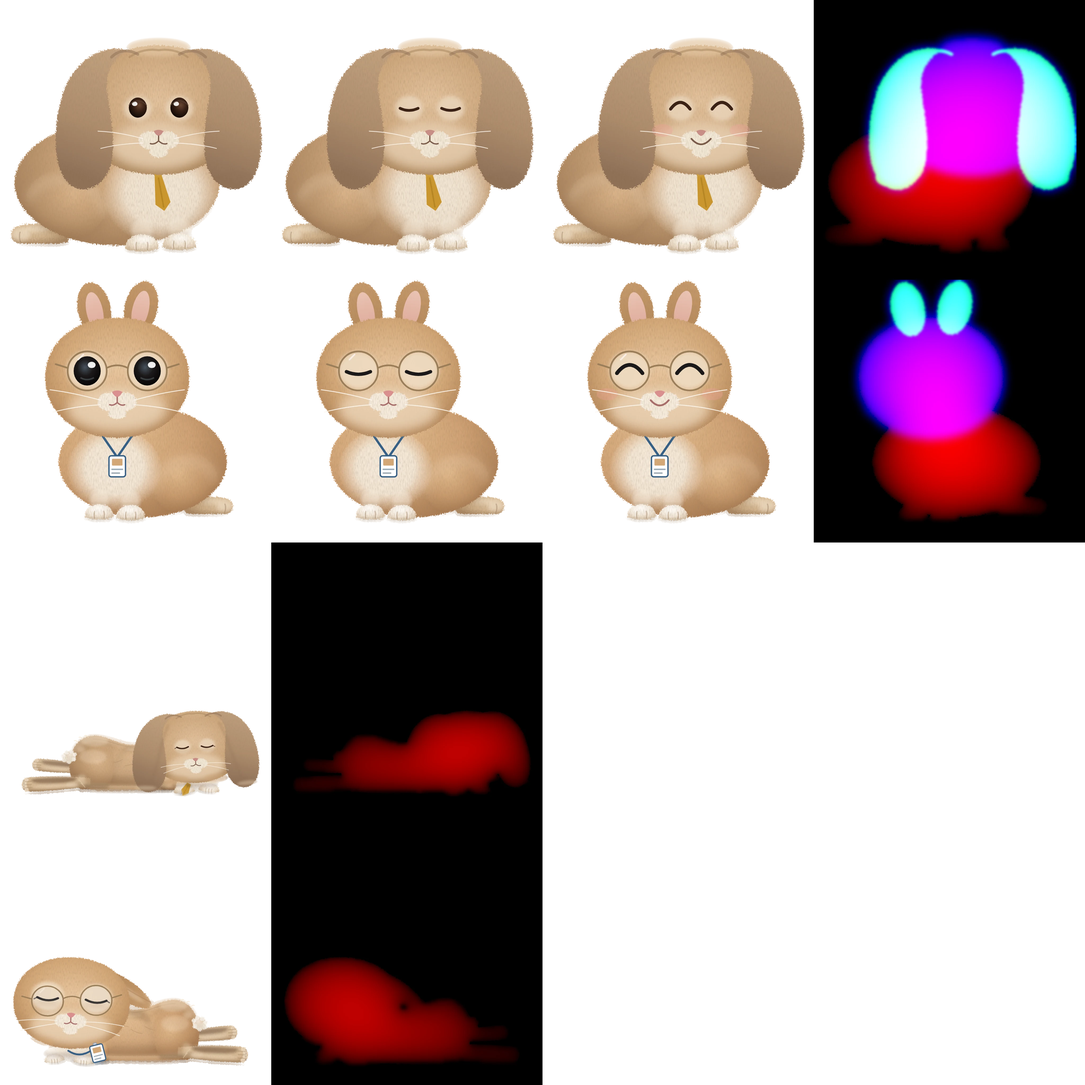
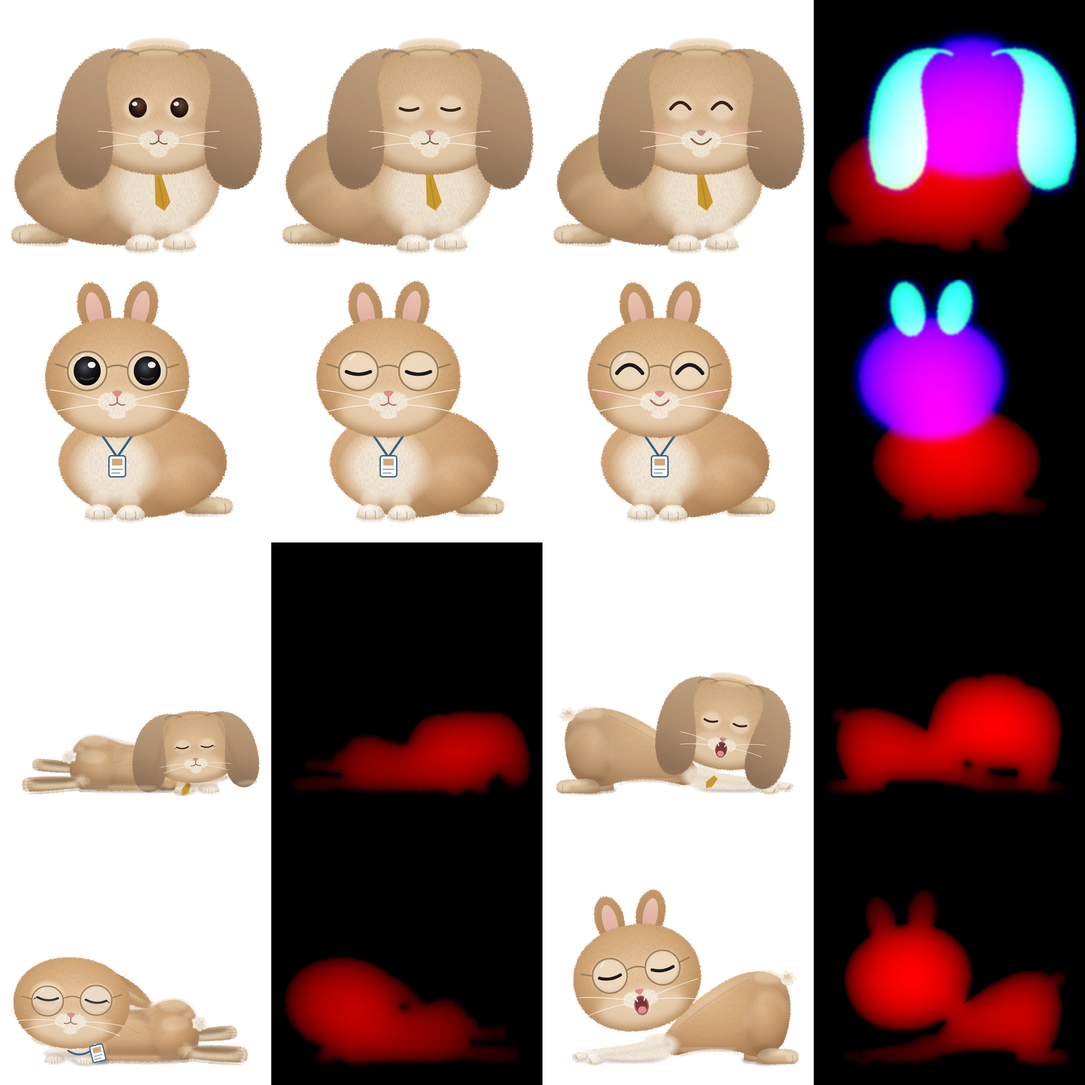
動くレンとジル：伸び（あくび）と、ばたん（横倒しで寝る）を足す
ばたんの絵は 2 枚目の絵（atlas2.webp）に入れ、読めない時は今までの寝方になる。
倒し具合・ずれ・?v= を check 57 が見張る。

Claude-Session: https://claude.ai/code/session_01KYhWQVkUVFVXPun7Dy396r

Changed region(s): [[0.5, 0.5, 1.0, 1.0]]

diff --git a/guide3d.js b/guide3d.js
@@ -26,12 +26,15 @@
   window.__g3d = state;
 
   /* ───────── 絵のます目（tools/make_g3d.py と同じ数字） ───────── */
+  const ATLAS2 = (document.currentScript && document.currentScript.dataset.atlas2) || "img/g3d/atlas2.webp";   // ばたんの絵（2 枚目）
   const AW = 4096, AH = 4096, CELL = 1024, PAD = 32, INNER = CELL - PAD * 2; // 2026-11-16（→ NOTES）
   const tile = (col, row) => [(col * CELL + PAD) / AW, (row * CELL + PAD) / AH, INNER / AW, INNER / AH];
   const FACE = { open: 0, blink: 1, happy: 2 };
   // 寝る姿勢の倍率（→ NOTES）
   const POSE_R = [1.728, 1.2604], POSE_X = [-0.3272, 0.2587];   // X＝ずれ
-  const flatOff = (c) => Math.cos(c.tA || 0) >= 0 ? POSE_X[c.row] + (c.row ? 0.16 : -0.16) : (c.row ? -1 : 1) * (0.3 - POSE_R[c.row] / 2);   // 寝る絵のまん中のずれ。反対を向いている時は、前へのびて伏せる（お尻はその場、頭が前へ）
+  const FLOP_R = [1.456, 1.2865], FLOP_X = [-0.2088, 0.0738], t2 = (col, row) => [(col * CELL + PAD) / 2048, (row * CELL + PAD) / 2048, INNER / 2048, INNER / 2048];   // ばたん（2 枚目の絵 atlas2.webp）
+  const BOW_R = [1.408, 1.125], BOW_X = [-0.1528, 0.0938];   // 前のび（伸び＋あくび）の（→ NOTES）
+  const flatOff = (c) => { const X = c.fp ? FLOP_X : POSE_X, Rr = c.fp ? FLOP_R : POSE_R; return Math.cos(c.tA || 0) >= 0 ? X[c.row] + (c.row ? 0.16 : -0.16) : (c.row ? -1 : 1) * (0.3 - Rr[c.row] / 2); };   // 寝る絵のまん中のずれ（→ NOTES）
   const FOOT = 0.058;      // 絵の下から足の裏までの割合
   const GRID = 72;         // 板の分割数（2026-11-16：耳（→ NOTES）
   const DEPTH = 0.27;      // ふくらみの厚さ（絵の幅に対して）
@@ -52,7 +55,7 @@ void main() {
   vec2 q = aUv; float plant = smoothstep(${FOOT.toFixed(3)}, ${(FOOT + 0.1).toFixed(3)}, q.y);
   if (uEarP.w < 0.5) {
     float wy = smoothstep(uEarP.z, uEarP.z + 0.08, q.y), mid = 0.5 * (uEarP.x + uEarP.y);
-    float mL = aD.y * (1.0 - smoothstep(mid - 0.02, mid + 0.02, q.x)), mR = aD.y * smoothstep(mid - 0.02, mid + 0.02, q.x); // 耳の形のところだけ（頭や体はついてこない）
+    float mL = aD.y * (1.0 - smoothstep(mid - 0.02, mid + 0.02, q.x)), mR = aD.y * smoothstep(mid - 0.02, mid + 0.02, q.x); // 耳の形のところだけ（→ NOTES）
     q.y -= (q.y - uEarP.z) * uEar.w * wy * max(mL, mR);
     q = rot2(q, vec2(uEarP.x, uEarP.z), uEar.x * wy * mL);
     q = rot2(q, vec2(uEarP.y, uEarP.z), uEar.y * wy * mR);
@@ -77,7 +80,7 @@ void main() {
     q.y -= uHop.w * 0.035 * fr * smoothstep(0.2, 0.6, q.y);                   // 前足の着地：肩（進む側）が沈む
     q.x += uHop.z * uHop.x * 0.03 * smoothstep(0.2, 0.7, q.y) * body; }        // のび：胸が前へ出る
   vec3 p = vec3((q.x - 0.5) * uSq.x, (q.y - ${FOOT.toFixed(3)}) * uSq.y, aD.x * ${DEPTH.toFixed(2)} * uSq.x);
-  { float m = uM > 1.5708 ? -1.0 : 1.0, th = (uM > 1.5708 ? uM - 3.14159 : uM) * 0.45, c0 = cos(th), s0 = sin(th); p.x *= m; p.z *= 1.0 + 0.6 * abs(s0); p.xz = vec2(p.x * c0 + p.z * s0, -p.x * s0 + p.z * c0); }   // 向きを変える：体を縦の軸で 40 度まで回し、跳ねた一番上で左右を入れかえ、反対側から回しもどす（真横まで回すと、ふくらみの絵が流れて乱れた）
+  { float m = uM > 1.5708 ? -1.0 : 1.0, th = (uM > 1.5708 ? uM - 3.14159 : uM) * 0.45, c0 = cos(th), s0 = sin(th); p.x *= m; p.z *= 1.0 + 0.6 * abs(s0); p.xz = vec2(p.x * c0 + p.z * s0, -p.x * s0 + p.z * c0); }   // 向きを変える（→ NOTES）
   p.xy += uLag * top * top * top;
   float cz = cos(uRot.z), sz = sin(uRot.z); p.xy = vec2(p.x * cz - p.y * sz, p.x * sz + p.y * cz);
   float cx = cos(uRot.x), sx = sin(uRot.x); p.yz = vec2(p.y * cx - p.z * sx, p.y * sx + p.z * cx);
@@ -153,7 +156,7 @@ void main() { vec4 c = texture2D(uI, uTile.xy + (vQ * vec2(0.5, -0.5) + 0.5) * u
   };
 
   let offY = 0;
-  let progChar, progBlob, progIcon, tex, texIcon, quadBuf, idxBuf, idxCount, meshes = [], meshesF = [], cleared = false;
+  let progChar, progBlob, progIcon, tex, texIcon, quadBuf, idxBuf, idxCount, meshes = [], meshesF = [], meshesB = [], meshesP = [], tex2 = null, cleared = false;
   const proj = new Float32Array(16);
   let W = 1, H = 1, DPR = 1, camD = 1;
 
@@ -161,13 +164,14 @@ void main() { vec4 c = texture2D(uI, uTile.xy + (vQ * vec2(0.5, -0.5) + 0.5) * u
     progChar = program(VS_CHAR, FS_CHAR, ["aUv", "aD"]);
     progBlob = program(VS_BLOB, FS_BLOB, ["aQ"]);
     progIcon = program(VS_BLOB, FS_ICON, ["aQ"]);
-    tex = gl.createTexture(); gl.bindTexture(gl.TEXTURE_2D, tex);
+    const mkTex = (im) => { const t = gl.createTexture(); gl.bindTexture(gl.TEXTURE_2D, t);
     gl.pixelStorei(gl.UNPACK_PREMULTIPLY_ALPHA_WEBGL, false);
-    gl.texImage2D(gl.TEXTURE_2D, 0, gl.RGBA, gl.RGBA, gl.UNSIGNED_BYTE, img);
+    gl.texImage2D(gl.TEXTURE_2D, 0, gl.RGBA, gl.RGBA, gl.UNSIGNED_BYTE, im);
     gl.generateMipmap(gl.TEXTURE_2D);
     gl.texParameteri(gl.TEXTURE_2D, gl.TEXTURE_MIN_FILTER, gl.LINEAR_MIPMAP_LINEAR);
     gl.texParameteri(gl.TEXTURE_2D, gl.TEXTURE_MAG_FILTER, gl.LINEAR);
-    gl.texParameteri(gl.TEXTURE_2D, gl.TEXTURE_WRAP_S, gl.CLAMP_TO_EDGE); gl.texParameteri(gl.TEXTURE_2D, gl.TEXTURE_WRAP_T, gl.CLAMP_TO_EDGE);
+    gl.texParameteri(gl.TEXTURE_2D, gl.TEXTURE_WRAP_S, gl.CLAMP_TO_EDGE); gl.texParameteri(gl.TEXTURE_2D, gl.TEXTURE_WRAP_T, gl.CLAMP_TO_EDGE); return t; };
+    tex = mkTex(img);
     texIcon = gl.createTexture(); gl.bindTexture(gl.TEXTURE_2D, texIcon);
     gl.pixelStorei(gl.UNPACK_PREMULTIPLY_ALPHA_WEBGL, true);
     gl.texImage2D(gl.TEXTURE_2D, 0, gl.RGBA, gl.RGBA, gl.UNSIGNED_BYTE, drawIcons());
@@ -178,13 +182,14 @@ void main() { vec4 c = texture2D(uI, uTile.xy + (vQ * vec2(0.5, -0.5) + 0.5) * u
     // 奥行きを頂点に焼きこむ（→ NOTES）
     const N = GRID + 1, c2 = document.createElement("canvas"); c2.width = N; c2.height = N * 2;
     const g = c2.getContext("2d", { willReadFrequently: true });
-    const mesh = (col, row) => {
-      g.clearRect(0, 0, N, N); g.drawImage(img, col * CELL + PAD, row * CELL + PAD, INNER, INNER, 0, 0, N, N);
+    const mesh = (col, row, im = img) => {
+      g.clearRect(0, 0, N, N); g.drawImage(im, col * CELL + PAD, row * CELL + PAD, INNER, INNER, 0, 0, N, N);
       const px = g.getImageData(0, 0, N, N).data, v = new Float32Array(N * N * 5);
       for (let j = 0; j < N; j++) for (let i = 0; i < N; i++) { const k = (j * N + i) * 5, o = ((N - 1 - j) * N + i) * 4; v[k] = i / GRID; v[k + 1] = j / GRID; v[k + 2] = px[o] / 255; v[k + 3] = px[o + 1] / 255; v[k + 4] = px[o + 2] / 255; }
       const b = gl.createBuffer(); gl.bindBuffer(gl.ARRAY_BUFFER, b); gl.bufferData(gl.ARRAY_BUFFER, v, gl.STATIC_DRAW); return b;
     };
-    meshes = [mesh(3, 0), mesh(3, 1)]; meshesF = [mesh(1, 2), mesh(1, 3)];
+    meshes = [mesh(3, 0), mesh(3, 1)]; meshesF = [mesh(1, 2), mesh(1, 3)]; meshesB = [mesh(3, 2), mesh(3, 3)];
+    { const i2 = new Image(); i2.crossOrigin = "anonymous"; i2.onload = () => { try { tex2 = mkTex(i2); meshesP = [mesh(1, 0, i2), mesh(1, 1, i2)]; } catch (e) { tex2 = null; } }; i2.src = ATLAS2; }   // 2 枚目（ばたん）。読めなくても、ばたんをしないだけ
     const idx = new Uint16Array(GRID * GRID * 6); let q = 0;
     for (let j = 0; j < GRID; j++) for (let i = 0; i < GRID; i++) { const a = j * N + i, b = a + 1, c = a + N, d = c + 1; idx[q++] = a; idx[q++] = b; idx[q++] = c; idx[q++] = b; idx[q++] = d; idx[q++] = c; }
     idxBuf = gl.createBuffer(); gl.bindBuffer(gl.ELEMENT_ARRAY_BUFFER, idxBuf); gl.bufferData(gl.ELEMENT_ARRAY_BUFFER, idx, gl.STATIC_DRAW); idxCount = idx.length;
@@ -257,22 +262,22 @@ void main() { vec4 c = texture2D(uI, uTile.xy + (vQ * vec2(0.5, -0.5) + 0.5) * u
     if (!opt.intro && !onScreen(r, T.size)) c.exit = { x: W + fs * 1.2, y: clamp(fy, fs, H - 20) }; // 行き先が画面の外 → 右の端へ出ていく
     c.from = { x: fx, dy: fy + scrollY, z: fz, size: fs };
     const E = c.exit || T, dist = Math.hypot(E.x - fx, E.y - fy);
-    c.shortMv = opt.intro || Math.abs(E.x - fx) < fs * 0.5;   // 最初の登場（奥から出てくる）も、向きを変えない（向かい合ったまま） // ほんの少しの移動は、向きを変えずに横へ一歩ずれる
+    c.shortMv = opt.intro || Math.abs(E.x - fx) < fs * 0.5;   // 最初の登場（→ NOTES）
     c.hops = opt.intro ? 3 : clamp(Math.round(dist / (c.row ? 300 : 380)), 1, c.row ? 4 : 3);   // ジル（小さい種類）は、小さな跳びを多く
     c.hopH = clamp(dist / c.hops * 0.22, c.shortMv && !opt.intro ? 10 : 26, 64) * (opt.intro ? 1.3 : 1) * (c.row ? 1.08 : 0.92);   // 重いレンは低く、軽いジルは少し高く   // 長い移動でも高く跳ばない   // うさぎの跳びは低く長い（→ NOTES）
     c.zArc = opt.intro ? 0 : clamp(dist * 0.35, 0, 240);
-    c.seed = Math.random() * 6; c.dur = (opt.intro ? 1.5 : Math.min(1.15, 0.5 + 0.2 * c.hops + dist / 4200)) * (0.94 + 0.06 * Math.random());   // 広い画面でも待たせない。毎回少しだけ速さがちがう（おそくはしない）
-    c.pre = opt.intro || !curOn || c.mode !== "sit" ? 0 : Math.abs(E.x - fx) < fs * 0.5 ? 0.05 : 0.13;   // ほんの少しの移動は、ほとんどためずに、小さく一歩                          // 跳ぶ前に、いちど沈む（ため）
-    { const dd = Math.sign(E.x - fx), want = dd * (c.row ? -1 : 1); if (dd && !c.shortMv && c.mode === "sit" && Math.cos(c.tA || 0) * want < 0) c.pre = Math.max(c.pre, c.row ? 0.28 : 0.38); }   // 重いレンは、ためが少し長い   // 向きを変える時は、向き終わってから跳ぶ
+    c.seed = Math.random() * 6; c.dur = (opt.intro ? 1.5 : Math.min(1.15, 0.5 + 0.2 * c.hops + dist / 4200)) * (0.94 + 0.06 * Math.random());   // 広い画面でも待たせない（→ NOTES）
+    c.pre = opt.intro || !curOn || c.mode !== "sit" ? 0 : Math.abs(E.x - fx) < fs * 0.5 ? 0.05 : 0.13;   // ほんの少しの移動は（→ NOTES）
+    { const dd = Math.sign(E.x - fx), want = dd * (c.row ? -1 : 1); if (dd && !c.shortMv && c.mode === "sit" && Math.cos(c.tA || 0) * want < 0) c.pre = Math.max(c.pre, c.row ? 0.28 : 0.38); }   // 重いレンは（→ NOTES）
     c.idle = ""; c.idNow = ""; c.env = 0; c.loafNow = false; c.calmNow = false; c.calmAt = 0;
-    const dd0 = Math.sign(E.x - fx) || 0; c.t = -(dd0 ? (dd0 * (c.row ? 1 : -1) > 0 ? 0 : 0.08 + 0.06 * Math.random()) : c.delay) - (opt.wait || 0) - c.pre; c.flat = false; c.flatGoal = false; c.lieT = 1; c.mode = "fly"; c.dir = Math.sign(E.x - fx) || 0; c.hopDir = c.dir || c.hopDir; c.seen = true; c.hop = 0; c.hopV = 0; c.spinT = -1; c.act = ""; c.hover = false; c.asleep = false;   // 進む方で前にいる子が先に出る（うしろの子が飛びこえない）
+    const dd0 = Math.sign(E.x - fx) || 0; c.t = -(dd0 ? (dd0 * (c.row ? 1 : -1) > 0 ? 0 : 0.08 + 0.06 * Math.random()) : c.delay) - (opt.wait || 0) - c.pre; c.flat = false; c.flatGoal = false; c.lieT = 1; c.mode = "fly"; c.dir = Math.sign(E.x - fx) || 0; c.hopDir = c.dir || c.hopDir; c.seen = true; c.hop = 0; c.hopV = 0; c.spinT = -1; c.act = ""; c.hover = false; c.asleep = false;   // 進む方で前にいる子が先に出る（→ NOTES）
     unsay(c);
   };
 
   const land = (c, now) => {
-    c.dust = 1; c.dX = c.x; c.dY = c.gy; c.mode = "sit"; c.h = 0; c.z = zBase(c); c.sqV = c.row ? -2.8 : -3.8; c.sl = c.dir * c.size * 0.03 * clamp(c.hopH / 40, 0.6, 1.6); c.happyUntil = now + 1.1;   // レン（重い種類）は着地で大きく沈む／勢いで少しすべって止まる
+    c.dust = 1; c.dX = c.x; c.dY = c.gy; c.mode = "sit"; c.h = 0; c.z = zBase(c); c.sqV = c.row ? -2.8 : -3.8; c.sl = c.dir * c.size * 0.03 * clamp(c.hopH / 40, 0.6, 1.6); c.happyUntil = now + 1.1;   // レン（重い種類）は着地で（→ NOTES）
     c.rx += 0.14; c.hyV -= 0.5; c.flapV -= 5; c.eWV += 3; c.exert = Math.min(1, c.exert + 0.25 + 0.12 * c.hops); c.hopF = -1;
-    if (Math.random() < 0.3) { c.idle = "shake"; c.idleT0 = now + 0.55; c.idleUntil = now + 1.05; } c.dir = 0; c.lookUntil = Math.cos(c.tA || 0) * (c.row ? -1 : 1) < 0 ? now + 1.4 : c.lookUntil; if (c.hops >= 3 && Math.random() < 0.35) { c.idle = "scope"; c.idleT0 = now + 0.4; c.idleUntil = now + 2; } c.hopAt = now + 4 + Math.random() * 5; c.lookAt = now + 5 + Math.random() * 5;   // 相手に背を向けて着いたら、体は回さず、頭だけで相手のほうをふり返る／長く走ったあとは、立ち止まって見回すことがある
+    if (Math.random() < 0.3) { c.idle = "shake"; c.idleT0 = now + 0.55; c.idleUntil = now + 1.05; } c.dir = 0; c.lookUntil = Math.cos(c.tA || 0) * (c.row ? -1 : 1) < 0 ? now + 1.4 : c.lookUntil; if (c.hops >= 3 && Math.random() < 0.35) { c.idle = "scope"; c.idleT0 = now + 0.4; c.idleUntil = now + 2; } c.hopAt = now + 4 + Math.random() * 5; c.lookAt = now + 5 + Math.random() * 5;   // 相手に背を向けて着いたら（→ NOTES）
     if (c.y > 0 && c.y < H + 20) {
       for (let i = 0; i < 5; i++) puffs.push({ x: c.x + (Math.random() - 0.5) * c.size * 0.5, dy: c.y + scrollY - 2, vx: (Math.random() - 0.5) * 90, vy: -20 - Math.random() * 40, r: c.size * (0.05 + Math.random() * 0.05), t: 0 });
       rings.push({ x: c.x, dy: c.y + scrollY, r: c.size * 0.3, t: 0 });
@@ -342,11 +347,11 @@ void main() { vec4 c = texture2D(uI, uTile.xy + (vQ * vec2(0.5, -0.5) + 0.5) * u
     if (now > c.twAt && now > c.twUntil) { c.twUntil = now + 1 + Math.random() * 2.2; c.twAt = c.twUntil + 0.8 + Math.random() * 3; }
     c.twPh += dt * (c.sniff ? 8 : 5 + 2 * c.exert) * 6.283;
     c.nose = !(c.asleep || c.hover || id === "groom" || fly) && (c.sniff || now < c.twUntil) ? Math.pow(Math.max(0, Math.sin(c.twPh)), 2) * (c.sniff ? 0.007 : 0.0045) : c.nose * Math.max(0, 1 - dt * 12);
-    { // 向き（2026-11-17 オーナー：左へ行く時は左を向いて走る）。ふだんは相手のほう（レンは右・ジルは左を向いた絵）。跳ぶ前にその場で向きを変え、着いて少したったら相手のほうへ戻る
-      const mT = fly && c.dir && !c.shortMv ? c.dir * (c.row ? -1 : 1) : c.faceM || 1; if (fly && c.dir && !c.shortMv) c.faceM = mT;   // 着いたら、そのままの向きでいる（毎回、相手のほうへ向き直らない。2026-11-17 オーナー）
-      const tg = mT > 0 ? 0 : Math.PI; if (tg !== c.tG) { c.tG = tg; c.tF = c.tA || 0; c.tq = 0; } c.tq = Math.min(1, (c.tq ?? 1) + dt / (c.row ? 0.32 : 0.45)); c.tA = c.tF + (c.tG - c.tF) * smooth(c.tq); const d = c.tG - c.tA;   // ゆっくり始まり、ゆっくり終わる。重いレンは 0.45 秒、小さいジルは 0.32 秒
+    { // 向き（2026-11-1（→ NOTES）
+      const mT = fly && c.dir && !c.shortMv ? c.dir * (c.row ? -1 : 1) : c.faceM || 1; if (fly && c.dir && !c.shortMv) c.faceM = mT;   // 着いたら（→ NOTES）
+      const tg = mT > 0 ? 0 : Math.PI; if (tg !== c.tG) { c.tG = tg; c.tF = c.tA || 0; c.tq = 0; } c.tq = Math.min(1, (c.tq ?? 1) + dt / (c.row ? 0.32 : 0.45)); c.tA = c.tF + (c.tG - c.tF) * smooth(c.tq); const d = c.tG - c.tA;   // ゆっくり始まり（→ NOTES）
       c.dust = Math.max(0, (c.dust || 0) - dt * 2.4);
-      if (c.tq >= 0.92 && (c.tqP || 0) < 0.92 && c.tq < 1.01) { c.dust = 0.7; c.dX = c.x; c.dY = c.gy; c.dK = 0.55; c.dDir = 0; c.flapV -= 2; } c.tqP = c.tq;   // 向きを変えて小さく跳ねたあと、着く所に小さなほこり・耳がはずむ
+      if (c.tq >= 0.92 && (c.tqP || 0) < 0.92 && c.tq < 1.01) { c.dust = 0.7; c.dX = c.x; c.dY = c.gy; c.dK = 0.55; c.dDir = 0; c.flapV -= 2; } c.tqP = c.tq;   // 向きを変えて小さく跳ねたあと（→ NOTES）
       if (Math.abs(d) > 2 && !c.turning) { c.turning = 1; c.flapV -= 4; c.eWV += 2; } if (Math.abs(d) < 0.01) c.turning = 0; c.sl = (c.sl || 0) * Math.max(0, 1 - dt * 7); }   // 向きを変える時、耳がふわっと外へ
     c.exert = Math.max(0, c.exert - dt / 7); c.br += dt * (c.asleep ? 28 : c.loafNow ? 36 : 42 + 58 * c.exert) / 60 * 6.283;
   };
@@ -390,16 +395,16 @@ void main() { vec4 c = texture2D(uI, uTile.xy + (vQ * vec2(0.5, -0.5) + 0.5) * u
         const u = t * c.hops, hi = Math.min(Math.floor(u), c.hops - 1), f = u >= c.hops ? 1 : u - Math.floor(u);
         if ((c.t > 0 && c.tP <= 0) || (hi !== c.hiL && c.t > 0)) { c.dust = 1; c.dX = c.x; c.dY = c.gy; c.dK = clamp(c.hopH / 50, 0.6, 1.3); c.dDir = c.dir; if (hi !== c.hiL && c.t > 0) c.flapV -= 2.5; } c.hiL = hi; c.tP = c.t;   // けった所・着いた所に小さな土ぼこり
         const ST = hi > 0 ? (hi === c.hops - 1 ? 0.14 : 0.09) : 0, fa = clamp((f - ST) / (1 - ST), 0, 1), Wt = (i) => c.hops < 2 ? 1 : i === 0 ? 0.8 : i === c.hops - 1 ? 0.85 : 1.15;
-        let tw = 0, sw = 0; for (let i = 0; i < c.hops; i++) { tw += Wt(i); if (i < hi) sw += Wt(i); } const p = (sw + Wt(hi) * smooth(fa)) / tw;   // 1 歩目は短く（走り出し）、まん中は長く、最後は短く（止まる）。地面にいる間はまん中ほど短い
+        let tw = 0, sw = 0; for (let i = 0; i < c.hops; i++) { tw += Wt(i); if (i < hi) sw += Wt(i); } const p = (sw + Wt(hi) * smooth(fa)) / tw;   // 1 歩目は短く（→ NOTES）
         c.gx = c.from.x + (E.x - c.from.x) * p; c.gy = fy + (E.y - fy) * p;
-        c.h = Math.sin(Math.PI * fa) * c.hopH * (c.hops < 2 ? 1 : Wt(hi) * c.hops / tw) * (1 + 0.08 * Math.sin(hi * 2.3 + c.row * 1.7 + (c.seed || 0))) * (c.t < 0 ? 0 : 1); c.hopF = c.t < 0 ? -1 : fa;   // 1 歩ごとに高さが少しちがう（機械のように同じにしない）
+        c.h = Math.sin(Math.PI * fa) * c.hopH * (c.hops < 2 ? 1 : Wt(hi) * c.hops / tw) * (1 + 0.08 * Math.sin(hi * 2.3 + c.row * 1.7 + (c.seed || 0))) * (c.t < 0 ? 0 : 1); c.hopF = c.t < 0 ? -1 : fa;   // 1 歩ごとに高さが少しちがう（→ NOTES）
         { const o = chars[1 - c.row], g = c.size * 0.62 + o.size * 0.42; if (o.mode === "fly" && c.dir && o.dir === c.dir && (o.x - c.gx) * c.dir > 0 && (o.x - c.gx) * c.dir < g) c.gx = o.x - c.dir * g; }   // 前の子に追いつかない（間をあける）
         c.x = c.gx; c.y = c.gy - c.h;
         c.z = c.from.z + (zBase(c) - c.from.z) * smooth(t) + Math.sin(Math.PI * t) * c.zArc;
         c.size = c.from.size + (T.size - c.from.size) * p; c.comp = smooth(t); c.air = clamp(Math.min(t, 1 - t) * 5, 0, 1);
         c.alpha = c.t < 0 ? (c.from.z < -10 ? 0 : c.alpha) : Math.min(1, c.alpha + dt * 5);
         const air = Math.sin(Math.PI * fa), ground = f < ST ? 1 : Math.exp(-Math.pow(Math.min(fa, 1 - fa) / 0.1, 2));
-        if (c.t < 0) c.sq = 1 - (0.11 + 0.03 * c.hops) * (c.pre > 0 ? smooth(clamp(1 + c.t / c.pre, 0, 1)) : 0);   // 遠くへ行く時ほど深くためる   // ため
+        if (c.t < 0) c.sq = 1 - (0.11 + 0.03 * c.hops) * (c.pre > 0 ? smooth(clamp(1 + c.t / c.pre, 0, 1)) : 0);   // 遠くへ行く時ほど深くため（→ NOTES）
         else c.sq = 1 - 0.07 * Math.pow(air, 0.7) + 0.05 * ground * (t > 0.02 ? 1 : 0);          // 空中は体が長く低い・着いた時は背中が丸く高い（→ NOTES）
         // うさぎ跳びの形（→ NOTES）
         { const pre = c.t < 0 ? (c.pre > 0 ? smooth(clamp(1 + c.t / c.pre, 0, 1)) : 0) : 0, ext = c.t < 0 ? 0 : Math.pow(Math.sin(Math.PI * Math.min(1, fa * 1.12)), 0.75) * (fa < 0.9 ? 1 : (1 - fa) / 0.1);
@@ -439,9 +444,10 @@ void main() { vec4 c = texture2D(uI, uTile.xy + (vQ * vec2(0.5, -0.5) + 0.5) * u
         if (asleep && now > c.lookAt) { c.lookAt = now + 4.2; if (onScreen(r, 0)) say(c, "zz", now, 2.0); }   // 居眠り中は、ときどき Zz
         if (c.asleep && !asleep) { unsay(c); c.idle = "stretch"; c.idleT0 = now; c.idleUntil = now + 1.7; }
         c.asleep = asleep; c.idNow = id; c.env = env; c.loafNow = loaf; c.calmNow = calm;
+        { const wb = c.mode === "sit" && c.idNow === "stretch" && c.env > 0.3 && !c.flat; if (wb !== c.bwG) { c.bwG = wb; c.bwT = 0; } if ((c.bwT ?? 1) < 1) { const w0 = c.bwT; c.bwT = Math.min(1, c.bwT + dt / 0.32); if (w0 < 0.5 && c.bwT >= 0.5) c.bw = wb; } }   // 伸び：前足を前へ・お尻を（→ NOTES）
         // 居眠り：のびて横になる（（→ NOTES）
-        { const want = asleep && c.hop === 0; if (want !== c.flatGoal) { c.flatGoal = want; c.lieT = 0; } if (c.lieT < 1) { const was = c.lieT; c.lieT = Math.min(1, c.lieT + dt / (want ? 0.7 : 0.45)); if (was < 0.5 && c.lieT >= 0.5) { c.flat = want; if (want) c.legIn = 0.45; } }
-          c.legIn = want ? (c.legIn || 0) * Math.max(0, 1 - dt * 3.2) : c.lieT < 0.5 ? c.lieT * 0.9 : 0;   // 横になると後ろ足をうしろへ少しずつのばし、起きる時は先に足を引きよせる
+        { const want = asleep && c.hop === 0; if (want !== c.flatGoal) { c.flatGoal = want; c.lieT = 0; if (want) c.fp = !!tex2 && Math.random() < 0.4; } if (c.lieT < 1) { const was = c.lieT; c.lieT = Math.min(1, c.lieT + dt / (want ? 0.7 : 0.45)); if (was < 0.5 && c.lieT >= 0.5) { c.flat = want; if (want) c.legIn = 0.45; } }
+          c.legIn = want ? (c.legIn || 0) * Math.max(0, 1 - dt * 3.2) : c.lieT < 0.5 ? c.lieT * 0.9 : 0;   // 横になると後ろ足をうしろへ少（→ NOTES）
           if (c.flat && (Math.random() < dt / 7 || (c.twN > 0 && (c.twN -= dt) <= 0))) { c.tw = 1; c.twN = Math.random() < 0.5 ? 0.3 : 0; } if (c.flat && Math.random() < dt / 11) c.sigh = 1; c.tw = Math.max(0, (c.tw || 0) - dt * 5); c.sigh = Math.max(0, (c.sigh || 0) - dt / 2.4); }   // 夢で足がぴくっ／ときどき大きく息
       }
       c.speed = Math.hypot(c.x - ox, c.y - oy) / Math.max(dt, 0.001);
@@ -453,14 +459,14 @@ void main() { vec4 c = texture2D(uI, uTile.xy + (vQ * vec2(0.5, -0.5) + 0.5) * u
       c.lagYV += ((tyl - c.lagY) * 150 - c.lagYV * 9) * dt; c.lagY += c.lagYV * dt;
       // 向き：移動中は進む方向へ。止まっているときは、P（→ NOTES）
       let ty = 0, tx = 0; const other = chars[1 - c.row], cursor = fine && now - pAt < 4;
-      if (c.mode === "fly") ty = c.dir * (c.row ? 0.25 : 0.18);   // 絵がもう進む方を向いているので、回しすぎない（体が平たく見えた）
+      if (c.mode === "fly") ty = c.dir * (c.row ? 0.25 : 0.18);   // 絵がもう進む方を向いているの（→ NOTES）
       else if (c.asleep) { ty = 0.12; tx = 0.1; }
       else if (info.act === "nap" && c.row === 1 && !cursor) ty = Math.sign(other.x - c.x) * 0.42;   // ジルは、寝ているレンを見ている
       else if (now < c.lookUntil) ty = Math.sign(other.x - c.x) * 0.5;
       else if (cursor) { // カーソルを目で追う（→ NOTES）
         const dxn = (px - c.x) / c.size, dyn = (py - (c.y - c.size * 0.5)) / c.size, far = smooth(clamp((Math.hypot(dxn, dyn) - 0.25) / 0.9, 0, 1));
         ty = clamp((px - c.x) / W * 1.6, -0.5, 0.5) * (0.25 + 0.75 * far); tx = clamp((py - (c.y - c.size * 0.5)) / H * 0.5, -0.16, 0.2) * (0.3 + 0.7 * far);
-        const toward = Math.sign(other.x - c.x) * ty; if (toward > 0) ty *= 1 - 0.45 * clamp(1.6 - Math.abs(other.x - c.x) / c.size, 0, 1); } // となりの子のほうへは、近いほど回しすぎない
+        const toward = Math.sign(other.x - c.x) * ty; if (toward > 0) ty *= 1 - 0.45 * clamp(1.6 - Math.abs(other.x - c.x) / c.size, 0, 1); } // となりの子のほうへは（→ NOTES）
       else { ty = Math.sin(now * 0.55 + c.row * 1.7) * 0.2 + clamp((W * 0.5 - c.x) / W, -0.5, 0.5) * 0.35; if (c.act === "watch" && now < c.actUntil) tx = 0.16; }
       if (c.mode === "sit" && !c.asleep && now > c.lookAt && info.act !== "nap") { c.lookAt = now + 6 + Math.random() * 6; c.lookUntil = now + 1.3; }
       if (c.mode === "fly") { if (c.hopF >= 0) tx += -0.12 * Math.cos(Math.PI * c.hopF); else if (c.pre > 0) tx += 0.1; }
@@ -479,7 +485,7 @@ void main() { vec4 c = texture2D(uI, uTile.xy + (vQ * vec2(0.5, -0.5) + 0.5) * u
       if (c.spinT >= 0) { c.spinT += dt / 0.8; if (c.spinT >= 1) c.spinT = -1; }
       life(c, now, dt, other, cursor);
       if (now > c.blinkAt) c.blinkAt = now + 4 + Math.random() * 7;
-      c.face = c.asleep || (c.mode === "sit" && (c.idNow === "groom" || (c.idNow === "stretch" && c.env > 0.5))) ? "blink" : now < c.happyUntil ? "happy" : (c.blinkAt - now < 0.13 && c.mode !== "fly" ? "blink" : "open");   // 跳んでいる間は、まばたきしない（前を見ている）
+      c.face = c.asleep || (c.mode === "sit" && (c.idNow === "groom" || (c.idNow === "stretch" && c.env > 0.5))) ? "blink" : now < c.happyUntil ? "happy" : (c.blinkAt - now < 0.13 && c.mode !== "fly" ? "blink" : "open");   // 跳んでいる間は（→ NOTES）
       if (c.alpha > 0.01 && c.y > -20 && c.y - c.size * 1.3 < H + 20 && c.x > -c.size && c.x < W + c.size) visible = true;
     }
     // 最初の画面で止まっていたら（→ NOTES）
@@ -513,15 +519,15 @@ void main() { vec4 c = texture2D(uI, uTile.xy + (vQ * vec2(0.5, -0.5) + 0.5) * u
     gl.useProgram(progBlob.p); const ub = progBlob.u; gl.uniformMatrix4fv(ub.uP, false, proj);
     gl.bindBuffer(gl.ARRAY_BUFFER, quadBuf); gl.enableVertexAttribArray(0); gl.vertexAttribPointer(0, 2, gl.FLOAT, false, 0, 0); gl.disableVertexAttribArray(1);
     const blob = (x, y, z, sx, sy2, ang, r, g, b, a, ring) => { gl.uniform3f(ub.uPos, x, y, z); gl.uniform2f(ub.uSz, sx, sy2); gl.uniform1f(ub.uAng, ang); gl.uniform1f(ub.uRing, ring || 0); gl.uniform4f(ub.uCol, r, g, b, a); gl.drawArrays(gl.TRIANGLE_STRIP, 0, 4); };
-    // 最初の画面：2 人のうしろに、やわらかい光
+    // 最初の画面（→ NOTES）
     if (heroK > 0.01) { const c = chars[0], j = chars[1]; if (c.mode === "sit" && j.mode === "sit") blob(wx((c.x + j.x) / 2), wy(c.y - c.size * 0.42), -40, c.size * 1.15, c.size * 0.8, 0, 1, 0.98, 0.9, 0.5 * heroK); }
     // 影・着地の輪・土ぼこり
     for (const c of chars) {
       if (c.alpha < 0.01 || c.mode === "wait") continue;
       const k = clamp(1 - c.h / (c.size * 1.3), 0.25, 1), s = 0.7 + 0.3 * k, d = 1 - dark;
       const fs = c.flatGoal ? c.lieT : 1 - c.lieT, mc2 = Math.cos(c.tA || 0), bodyX = -(c.row ? -1 : 1) * Math.sign(mc2) * c.size * 0.06;   // かげは体（頭のうしろ）の下へ少しずらす
-      blob(cx(c, c.gx + bodyX * (1 - Math.max(0, fs))) + Math.max(0, fs) * flatOff(c) * c.size * 0.9, cy(c, c.gy + c.size * 0.004), c.z, c.size * (0.36 + 0.26 * Math.max(0, fs)) * s * (1 + c.ext) * (0.78 + 0.22 * Math.abs(mc2)), c.size * (0.055 - 0.01 * Math.max(0, fs)) * s, 0, 0.17 * d, 0.11 * d, 0.07 * d, (0.30 + 0.25 * dark) * k * c.alpha * (1 - c.air) * (1 + 0.35 * (c.dust || 0)));   // 向きを変える途中はかげも短く／足が着いた瞬間は濃く
-      if (c.dust > 0) { const k = 1 - c.dust; for (const sd of [-1, 1]) blob(cx(c, c.dX + sd * c.size * (0.1 + 0.16 * k) - (c.dir || c.dDir || 0) * c.size * 0.12 * k), cy(c, c.dY - c.size * 0.05 * k), c.z, c.size * (0.04 + 0.05 * k) * (c.dK || 1), c.size * (0.016 + 0.014 * k) * (c.dK || 1), 0, dark ? 0.93 : 0.55, dark ? 0.89 : 0.45, dark ? 0.82 : 0.36, (dark ? 0.3 : 0.2) * c.dust * c.alpha); }   // 土ぼこりは、暗い所では明るく、明るい所では茶色に
+      blob(cx(c, c.gx + bodyX * (1 - Math.max(0, fs))) + Math.max(0, fs) * flatOff(c) * c.size * 0.9, cy(c, c.gy + c.size * 0.004), c.z, c.size * (0.36 + 0.26 * Math.max(0, fs)) * s * (1 + c.ext) * (0.78 + 0.22 * Math.abs(mc2)), c.size * (0.055 - 0.01 * Math.max(0, fs)) * s, 0, 0.17 * d, 0.11 * d, 0.07 * d, (0.30 + 0.25 * dark) * k * c.alpha * (1 - c.air) * (1 + 0.35 * (c.dust || 0)));   // 向きを変える途中はかげも短く（→ NOTES）
+      if (c.dust > 0) { const k = 1 - c.dust; for (const sd of [-1, 1]) blob(cx(c, c.dX + sd * c.size * (0.1 + 0.16 * k) - (c.dir || c.dDir || 0) * c.size * 0.12 * k), cy(c, c.dY - c.size * 0.05 * k), c.z, c.size * (0.04 + 0.05 * k) * (c.dK || 1), c.size * (0.016 + 0.014 * k) * (c.dK || 1), 0, dark ? 0.93 : 0.55, dark ? 0.89 : 0.45, dark ? 0.82 : 0.36, (dark ? 0.3 : 0.2) * c.dust * c.alpha); }   // 土ぼこりは（→ NOTES）
     }
     for (const p of rings) { const k = p.t / 0.5, rr = p.r * (1 + k * 2.2); blob(wx(p.x), wy(p.dy - scrollY), 0, rr, rr * 0.22, 0, 1, 0.87 + 0.1 * dark, 0.66 + 0.2 * dark, 0.5 * (1 - k) * (1 - k), 1); }
     for (const p of puffs) { const k = p.t / 0.6, rr = p.r * (1 + k * 1.6); blob(wx(p.x), wy(p.dy - scrollY), 0, rr, rr, 0, 0.93, 0.86, 0.74, 0.5 * (1 - k)); }
@@ -541,15 +547,15 @@ void main() { vec4 c = texture2D(uI, uTile.xy + (vQ * vec2(0.5, -0.5) + 0.5) * u
     for (const c of (chars[0].z <= chars[1].z ? chars : [chars[1], chars[0]])) {
       if (c.alpha < 0.01 || c.mode === "wait") continue;
       const mc = Math.cos(c.tA || 0), mm = mc < 0 ? -1 : 1, tw = Math.abs(Math.sin(c.tA || 0)), piv = c.tq < 1 ? Math.sin(Math.PI * c.tq) : 0;   // 向きを変える途中：小さく跳ねながらまわる
-      const fl = !!c.flat, R = fl ? POSE_R[c.row] : 1, dip = (c.lieT < 1 ? 1 - 0.16 * Math.sin(Math.PI * c.lieT) : 1) * (1 - 0.08 * tw) * (c.tq > 0.85 && c.tq < 1 ? 1 - 0.06 * Math.sin(Math.PI * (c.tq - 0.85) / 0.15) : 1);
-      gl.bindBuffer(gl.ARRAY_BUFFER, fl ? meshesF[c.row] : meshes[c.row]);
+      const fl = !!c.flat, fp = fl && c.fp && tex2, bw = !fl && !!c.bw, R = fp ? FLOP_R[c.row] : fl ? POSE_R[c.row] : bw ? BOW_R[c.row] : 1, dip = (c.bwT < 1 ? 1 - 0.1 * Math.sin(Math.PI * c.bwT) : 1) * (c.lieT < 1 ? 1 - 0.16 * Math.sin(Math.PI * c.lieT) : 1) * (1 - 0.08 * tw) * (c.tq > 0.85 && c.tq < 1 ? 1 - 0.06 * Math.sin(Math.PI * (c.tq - 0.85) / 0.15) : 1);
+      gl.bindBuffer(gl.ARRAY_BUFFER, fp ? meshesP[c.row] : fl ? meshesF[c.row] : bw ? meshesB[c.row] : meshes[c.row]);
       gl.enableVertexAttribArray(0); gl.vertexAttribPointer(0, 2, gl.FLOAT, false, 20, 0); gl.enableVertexAttribArray(1); gl.vertexAttribPointer(1, 3, gl.FLOAT, false, 20, 8);
       const wig = c.spinT >= 0 ? Math.sin(c.spinT * Math.PI * 4) * 0.17 * (1 - c.spinT) : 0;   // 押したとき：体を左右に振る
-      gl.uniform3f(u.uPos, cx(c, c.x + (c.sl || 0) + piv * c.size * 0.05 * (c.tG > 1.5 ? -1 : 1) * (c.row ? -1 : 1)) + (fl ? flatOff(c) * c.size : 0), cy(c, c.y - c.size * (c.row ? 0.07 : 0.045) * piv), c.z); gl.uniform1f(u.uSize, (c.size * pin(c) + c.size * (1 - pin(c)) * 0.45) * R);   // 近づくぶんは少し大きく（→ NOTES）
+      gl.uniform3f(u.uPos, cx(c, c.x + (c.sl || 0) + piv * c.size * 0.05 * (c.tG > 1.5 ? -1 : 1) * (c.row ? -1 : 1)) + (fl ? flatOff(c) * c.size : bw ? (BOW_X[c.row] + (c.row ? 0.24 : -0.24)) * mm * c.size : 0), cy(c, c.y - c.size * (c.row ? 0.07 : 0.045) * piv), c.z); gl.uniform1f(u.uSize, (c.size * pin(c) + c.size * (1 - pin(c)) * 0.45) * R);   // 近づくぶんは少し大きく（→ NOTES）
       gl.uniform1f(u.uM, fl ? (mc < 0 ? Math.PI : 0) : c.tA || 0); gl.uniform1f(u.uMf, mm > 0 ? 1 : -1);
       gl.uniform3f(u.uRot, fl ? 0 : c.rx, fl ? 0 : c.ry, fl ? 0 : c.rz + wig + (c.flatGoal && c.lieT < 0.5 ? (c.row ? 1 : -1) * mm * 0.14 * Math.sin(Math.PI * c.lieT * 2) : 0)); gl.uniform1f(u.uTurn, fl ? 0 : clamp(c.ry, -0.6, 0.6) + ((c.tA || 0) > 1.5708 ? (c.tA || 0) - Math.PI : c.tA || 0) * 0.45); gl.uniform2f(u.uSq, (1 + c.ext) / Math.sqrt(c.sq * dip), c.sq * dip); gl.uniform2f(u.uLag, fl ? 0 : c.lagX, fl ? 0 : c.lagY);   // 寝る：体が長いので回さな（→ NOTES）
       { const B = BODY[c.row], breath = (c.asleep ? 0.05 : 0.03 + 0.02 * c.exert) * (0.5 + 0.5 * Math.sin(c.br));
-        if (fl) { // 寝ている：息だけ
+        if (fl || bw) { // 寝ている（→ NOTES）
           gl.uniform4f(u.uEar, 0, 0, 0, 0); gl.uniform4f(u.uEarP, B.ear[0], B.ear[1], B.ear[2], B.ear[3]); gl.uniform4f(u.uHead, 0, 0, B.neck, 0); gl.uniform4f(u.uNose, 0.5, 0.5, 0, 0);
           gl.uniform4f(u.uBelly, c.row ? 0.42 : 0.58, 0.2, 0.2, breath * (1.4 + 1.6 * Math.sin(Math.PI * (c.sigh || 0)))); }
         else {
@@ -557,9 +563,9 @@ void main() { vec4 c = texture2D(uI, uTile.xy + (vQ * vec2(0.5, -0.5) + 0.5) * u
         gl.uniform4f(u.uHead, c.hx, c.hy, B.neck, c.ht); gl.uniform4f(u.uNose, B.nose[0], B.nose[1], c.nose, c.nose * 6);
         gl.uniform4f(u.uBelly, B.belly[0], B.belly[1], B.belly[2], breath); } }
       gl.uniform4f(u.uHop, fl ? 0 : c.hopE || 0, fl ? (c.legIn || 0) + Math.sin(Math.PI * (c.tw || 0)) * 0.1 : (c.hopG || 0) + 0.5 * tw, fl ? (c.row ? -1 : 1) * mm : (c.mode === "fly" ? c.dir : c.hopDir || 0) * Math.sign(mm), fl ? 0 : c.hopW || 0);
-      gl.uniform4fv(u.uTile, fl ? tile(0, 2 + c.row) : tile(FACE[c.face], c.row)); gl.uniform4fv(u.uDTile, fl ? tile(1, 2 + c.row) : tile(3, c.row));
+      if (fp) gl.bindTexture(gl.TEXTURE_2D, tex2); gl.uniform4fv(u.uTile, fp ? t2(0, c.row) : fl ? tile(0, 2 + c.row) : bw ? tile(2, 2 + c.row) : tile(FACE[c.face], c.row)); gl.uniform4fv(u.uDTile, fp ? t2(1, c.row) : fl ? tile(1, 2 + c.row) : tile(3, bw ? 2 + c.row : c.row));
       gl.uniform1f(u.uAlpha, c.alpha); gl.uniform1f(u.uBias, clamp(Math.abs(c.z) / 420, 0, 1) * 2.2 + (c.mode === "fly" ? clamp(c.speed / 2600, 0, 1) * 1.1 : 0));   // 遠い・近い・速いときは少しぼかす
-      gl.drawElements(gl.TRIANGLES, idxCount, gl.UNSIGNED_SHORT, 0);
+      gl.drawElements(gl.TRIANGLES, idxCount, gl.UNSIGNED_SHORT, 0); if (fp) gl.bindTexture(gl.TEXTURE_2D, tex);
     }
     gl.disableVertexAttribArray(1); gl.bindBuffer(gl.ARRAY_BUFFER, quadBuf); gl.vertexAttribPointer(0, 2, gl.FLOAT, false, 0, 0);
     // 頭の上の印
@@ -590,7 +596,7 @@ void main() { vec4 c = texture2D(uI, uTile.xy + (vQ * vec2(0.5, -0.5) + 0.5) * u
   addEventListener("resize", () => { findSpots(); fitWrap(); }, { passive: true });
   addEventListener("orientationchange", () => setTimeout(findSpots, 300), { passive: true });
   addEventListener("pageshow", go);
-  const onReduce = () => { if (mqReduce.matches) fail({ message: "reduced-motion" }); };   // 途中で「動きを減らす」に変えたら、すぐ止める
+  const onReduce = () => { if (mqReduce.matches) fail({ message: "reduced-motion" }); };   // 途中で「動きを減らす」に変え（→ NOTES）
   if (mqReduce.addEventListener) mqReduce.addEventListener("change", onReduce); else if (mqReduce.addListener) mqReduce.addListener(onReduce);
 
   const img = new Image(); img.decoding = "async"; img.crossOrigin = "anonymous";   // 絵が別の場所（→ NOTES）

diff --git a/index.html b/index.html
@@ -3312,7 +3312,7 @@ Object.defineProperty(window, "__RJ", { get: () => ({ T, EPS, jstISO, openLb, cl
 /* ═══════ 案内役の 3D：ページを読み終えてから、別ファイル guide3d.js を読む（最初の表示を遅くしない）═══════ */
 (() => {
   if (matchMedia("(prefers-reduced-motion: reduce)").matches || (navigator.connection || {}).saveData || !document.getElementById("g3d")) return;
-  const run = () => { const s = document.createElement("script"); s.src = "guide3d.js?v=cd1f70c8"; s.async = true; s.dataset.atlas = "img/g3d/atlas.webp?v=22afaf18"; document.head.appendChild(s); };
+  const run = () => { const s = document.createElement("script"); s.src = "guide3d.js?v=4f113acd"; s.async = true; s.dataset.atlas = "img/g3d/atlas.webp?v=099bcae3"; s.dataset.atlas2 = "img/g3d/atlas2.webp?v=424c3b9d"; document.head.appendChild(s); };
   // 画像や動画を全部待たず、HTML を読み終えて手が空いたら始める（2 人が早く出てくる）
   const soon = () => (window.requestIdleCallback ? requestIdleCallback(run, { timeout: 1200 }) : setTimeout(run, 300));
   if (document.readyState === "loading") addEventListener("DOMContentLoaded", soon, { once: true }); else soon();

diff --git a/tools/char_from_rig.py b/tools/char_from_rig.py
@@ -13,10 +13,10 @@ ROOT = os.path.dirname(os.path.dirname(os.path.abspath(__file__)))
 NAME = {'ren': 'ren', 'jil': 'jill', 'pom': 'pom'}
 BOX = {}
 FOOT = 0.058  # 絵の下から足の裏までの割合（guide3d.js の FOOT と同じ）
-def flat_cut(who, src):
+def flat_cut(who, src, kind='flat'):
     """寝る姿勢（*_flat.png）を、同じ場所で撮った「ふだんの絵」（*_flatref.png）と同じ縮尺・同じ足の線・同じまん中で切り出す。
     体が横に長いので正方形は大きくなる。その比（大きさの倍率）を返す（guide3d.js の POSE_R。img/g3d/poses.json に書き、検査 57 が見張る）"""
-    ref = Image.open(os.path.join(src, f'{who}_flatref.png')).convert('RGBA'); flat = Image.open(os.path.join(src, f'{who}_flat.png')).convert('RGBA')
+    ref = Image.open(os.path.join(src, f'{who}_flatref.png')).convert('RGBA'); flat = Image.open(os.path.join(src, f'{who}_{kind}.png')).convert('RGBA')
     x0, y0, x1, y1 = ref.getchannel('A').point(lambda v: 255 if v > 6 else 0).getbbox(); w, h = x1 - x0, y1 - y0; s = max(w, h)
     cx = x0 - (s - w) // 2 + s / 2; yf = y1 - FOOT * s  # ふだんの絵の正方形のまん中と、足の線
     fx0, fy0, fx1, fy1 = flat.getchannel('A').point(lambda v: 255 if v > 6 else 0).getbbox(); pad = 12
@@ -24,10 +24,12 @@ def flat_cut(who, src):
     # → 体にぴったり合わせて切り、まん中のずれ（ふだんの絵の大きさを 1 とした数）を返す。足の線はふだんの絵と同じ
     S = max(fx1 - fx0 + 2 * pad, (yf - fy0 + pad) / (1 - FOOT), s); bc = (fx0 + fx1) / 2; b = yf + FOOT * S
     sq = Image.new('RGBA', (int(S), int(S)), (0, 0, 0, 0)); sq.alpha_composite(flat.crop((int(bc - S / 2), int(b - S), int(bc - S / 2) + int(S), int(b - S) + int(S))))
-    os.makedirs('/tmp/char_hi', exist_ok=True); sq.save(f'/tmp/char_hi/{NAME[who]}_flat.png'); return [round(S / s, 4), round((bc - cx) / s, 4)]
-POSES = {}
+    os.makedirs('/tmp/char_hi', exist_ok=True); sq.save(f'/tmp/char_hi/{NAME[who]}_{kind}.png'); return [round(S / s, 4), round((bc - cx) / s, 4)]
+POSES, BOWS, FLOPS = {}, {}, {}  # BOWS：前のび（伸び＋あくび）。寝る姿勢と同じ切り方（2026-11-17）
 for fn in sorted(os.listdir(src), key=lambda f: f.endswith('_ears.png') or f.endswith('_headmask.png')):
     if fn.endswith('_flat.png'): POSES[NAME[fn.split('_')[0]]] = flat_cut(fn.split('_')[0], src); continue
+    if fn.endswith('_bow.png'): BOWS[NAME[fn.split('_')[0]]] = flat_cut(fn.split('_')[0], src, 'bow'); continue
+    if fn.endswith('_flop.png'): FLOPS[NAME[fn.split('_')[0]]] = flat_cut(fn.split('_')[0], src, 'flop'); continue  # ばたん（フロップ）：別の絵 atlas2.webp へ
     if fn.endswith('_flatref.png'): continue  # 耳だけの絵は、同じ子の「ふだん」の絵と同じ切り方にするので最後に
     if not fn.endswith('.png'): continue
     who, mood = fn[:-4].split('_', 1)
@@ -44,4 +46,4 @@ for fn in sorted(os.listdir(src), key=lambda f: f.endswith('_ears.png') or f.end
     os.makedirs('/tmp/char_hi', exist_ok=True); sq.save(f'/tmp/char_hi/{NAME[who]}_{mood}.png')  # 3D の案内役用の大きい絵（tools/make_g3d.py が使う。サイトには置かない）
     print(out)
 if POSES:
-    import json; json.dump({'flat': {k: v[0] for k, v in POSES.items()}, 'flatX': {k: v[1] for k, v in POSES.items()}}, open(os.path.join(ROOT, 'img', 'g3d', 'poses.json'), 'w')); print('poses', POSES)
+    import json; json.dump({'flat': {k: v[0] for k, v in POSES.items()}, 'flatX': {k: v[1] for k, v in POSES.items()}, 'bow': {k: v[0] for k, v in BOWS.items()}, 'bowX': {k: v[1] for k, v in BOWS.items()}, 'flop': {k: v[0] for k, v in FLOPS.items()}, 'flopX': {k: v[1] for k, v in FLOPS.items()}}, open(os.path.join(ROOT, 'img', 'g3d', 'poses.json'), 'w')); print('poses', POSES)

diff --git a/tools/make_g3d.py b/tools/make_g3d.py
@@ -78,6 +78,17 @@ for row, who in enumerate(("ren", "jill")):
     cell = np.dstack([d, em, hm, np.ones_like(d)])
     atlas[row * CELL: (row + 1) * CELL, 3 * CELL: 4 * CELL, 3] = 1
     atlas[row * CELL + PAD: row * CELL + PAD + INNER, 3 * CELL + PAD: 3 * CELL + PAD + INNER] = cell
+for row, who in enumerate(("ren", "jill")):  # 前のび（伸び＋あくび）：寝る姿勢の段の、空いている 3・4 列目（2026-11-17）
+    fp = f"/tmp/char_hi/{who}_bow.png"
+    if not os.path.exists(fp): print("伸びの絵が無い:", fp); continue
+    a = np.array(Image.open(fp).convert("RGBA").resize((INNER, INNER), Image.LANCZOS)).astype(np.float32)
+    al = body_alpha(a[..., 3]); rgb = a[..., :3] / 255.0; solid = al > 0.6
+    _, (iy, ix) = ndimage.distance_transform_edt(~solid, return_indices=True); rgb = np.where(solid[..., None], rgb, rgb[iy, ix])
+    r0 = (2 + row) * CELL
+    atlas[r0 + PAD: r0 + PAD + INNER, 2 * CELL + PAD: 2 * CELL + PAD + INNER] = np.dstack([rgb, al])
+    d = inflate(al) * (al > 0.05)
+    atlas[r0: r0 + CELL, 3 * CELL: 4 * CELL, 3] = 1
+    atlas[r0 + PAD: r0 + PAD + INNER, 3 * CELL + PAD: 3 * CELL + PAD + INNER] = np.dstack([d, np.zeros_like(d), np.zeros_like(d), np.ones_like(d)])
 for row, who in enumerate(("ren", "jill")):  # 寝る姿勢（のびて寝る）。tools/char_from_rig.py が /tmp/char_hi/*_flat.png を作る
     fp = f"/tmp/char_hi/{who}_flat.png"
     if not os.path.exists(fp): print("寝る姿勢の絵が無い:", fp); continue
@@ -93,3 +104,22 @@ out = Image.fromarray((np.clip(atlas, 0, 1) * 255).astype(np.uint8), "RGBA")
 os.makedirs(f"{ROOT}/img/g3d", exist_ok=True)
 out.save(f"{ROOT}/img/g3d/atlas.webp", quality=88, method=6, exact=True)
 print("img/g3d/atlas.webp", out.size, os.path.getsize(f"{ROOT}/img/g3d/atlas.webp") // 1024, "KB")
+
+# ---- 2 枚目の絵 atlas2.webp（2048×2048）：ばたん（フロップ）。1 枚目はもう空きが無く、4096 より大きい絵は読めないスマホがあるので、別の 1 枚にする（2026-11-17）
+# 段 0＝レン、段 1＝ジル。列 0＝絵、列 1＝奥行き（R）
+a2 = np.zeros((CELL * 2, CELL * 2, 4), np.float32)
+for row, who in enumerate(("ren", "jill")):
+    fp = f"/tmp/char_hi/{who}_flop.png"
+    if not os.path.exists(fp): print("ばたんの絵が無い:", fp); continue
+    a = np.array(Image.open(fp).convert("RGBA").resize((INNER, INNER), Image.LANCZOS)).astype(np.float32)
+    al = body_alpha(a[..., 3]); rgb = a[..., :3] / 255.0; solid = al > 0.6
+    _, (iy, ix) = ndimage.distance_transform_edt(~solid, return_indices=True); rgb = np.where(solid[..., None], rgb, rgb[iy, ix])
+    r0 = row * CELL
+    a2[r0 + PAD: r0 + PAD + INNER, PAD: PAD + INNER] = np.dstack([rgb, al])
+    d = inflate(al) * (al > 0.05) * 0.8
+    a2[r0: r0 + CELL, CELL: 2 * CELL, 3] = 1
+    a2[r0 + PAD: r0 + PAD + INNER, CELL + PAD: CELL + PAD + INNER] = np.dstack([d, np.zeros_like(d), np.zeros_like(d), np.ones_like(d)])
+o2 = os.path.join(os.path.dirname(os.path.abspath(__file__)), "..", "img", "g3d", "atlas2.webp")
+Image.fromarray((np.clip(a2, 0, 1) * 255).astype(np.uint8), "RGBA").save(o2, "WEBP", quality=88, method=6, exact=True)
+print("img/g3d/atlas2.webp", (CELL * 2, CELL * 2), os.path.getsize(o2) // 1024, "KB")
+

diff --git a/docs/GUIDE3D-NOTES.md b/docs/GUIDE3D-NOTES.md
@@ -75,3 +75,31 @@ guide3d.js は 48KB までと決めているので、長い説明はここに置
 - **近づくぶんは少し大きく**：近づくぶんは少し大きく／寝る時は、となりの子から少し離す
 - **寝る：体が長いので回さな**：寝る：体が長いので回さない・ゆらさない（足が床に沈んだ）
 - **手前の牧草**：手前の牧草（カメラに近いので、ぼけて大きく、速く流れる。最初の画面だけ）
+- **前のび（伸び＋あくび）の**：前のび（伸び＋あくび）の絵＝poses.json（検査57）
+- **寝る絵のまん中のずれ**：寝る絵のまん中のずれ。反対を向いている時は、前へのびて伏せる（お尻はその場、頭が前へ）
+- **耳の形のところだけ**：耳の形のところだけ（頭や体はついてこない）
+- **向きを変える**：向きを変える：体を縦の軸で 40 度まで回し、跳ねた一番上で左右を入れかえ、反対側から回しもどす（真横まで回すと、ふくらみの絵が流れて乱れた）
+- **最初の登場**：最初の登場（奥から出てくる）も、向きを変えない（向かい合ったまま） // ほんの少しの移動は、向きを変えずに横へ一歩ずれる
+- **広い画面でも待たせない**：広い画面でも待たせない。毎回少しだけ速さがちがう（おそくはしない）
+- **ほんの少しの移動は**：ほんの少しの移動は、ほとんどためずに、小さく一歩                          // 跳ぶ前に、いちど沈む（ため）
+- **重いレンは**：重いレンは、ためが少し長い   // 向きを変える時は、向き終わってから跳ぶ
+- **進む方で前にいる子が先に出る**：進む方で前にいる子が先に出る（うしろの子が飛びこえない）
+- **レン（重い種類）は着地で**：レン（重い種類）は着地で大きく沈む／勢いで少しすべって止まる
+- **相手に背を向けて着いたら**：相手に背を向けて着いたら、体は回さず、頭だけで相手のほうをふり返る／長く走ったあとは、立ち止まって見回すことがある
+- **向き（2026-11-1**：向き（2026-11-17 オーナー：左へ行く時は左を向いて走る）。ふだんは相手のほう（レンは右・ジルは左を向いた絵）。跳ぶ前にその場で向きを変え、着いて少したったら相手のほうへ戻る
+- **着いたら**：着いたら、そのままの向きでいる（毎回、相手のほうへ向き直らない。2026-11-17 オーナー）
+- **ゆっくり始まり**：ゆっくり始まり、ゆっくり終わる。重いレンは 0.45 秒、小さいジルは 0.32 秒
+- **向きを変えて小さく跳ねたあと**：向きを変えて小さく跳ねたあと、着く所に小さなほこり・耳がはずむ
+- **1 歩目は短く**：1 歩目は短く（走り出し）、まん中は長く、最後は短く（止まる）。地面にいる間はまん中ほど短い
+- **1 歩ごとに高さが少しちがう**：1 歩ごとに高さが少しちがう（機械のように同じにしない）
+- **遠くへ行く時ほど深くため**：遠くへ行く時ほど深くためる   // ため
+- **伸び：前足を前へ・お尻を**：伸び：前足を前へ・お尻を高く・あくびの絵に、一度沈んで入れかえる
+- **横になると後ろ足をうしろへ少**：横になると後ろ足をうしろへ少しずつのばし、起きる時は先に足を引きよせる
+- **絵がもう進む方を向いているの**：絵がもう進む方を向いているので、回しすぎない（体が平たく見えた）
+- **となりの子のほうへは**：となりの子のほうへは、近いほど回しすぎない
+- **跳んでいる間は**：跳んでいる間は、まばたきしない（前を見ている）
+- **最初の画面**：最初の画面：2 人のうしろに、やわらかい光
+- **向きを変える途中はかげも短く**：向きを変える途中はかげも短く／足が着いた瞬間は濃く
+- **土ぼこりは**：土ぼこりは、暗い所では明るく、明るい所では茶色に
+- **寝ている**：寝ている・伸びている：息だけ（絵の形がちがうので、耳・頭・鼻は動かさない）
+- **途中で「動きを減らす」に変え**：途中で「動きを減らす」に変えたら、すぐ止める

diff --git a/docs/SPLOOT-2026-11-17.md b/docs/SPLOOT-2026-11-17.md
@@ -190,3 +190,10 @@
 ## 二度と起きないようにしたこと
 - 説明（//）を 1 行の途中に書き足して、後ろの命令が消える失敗が、アニメの道具の側でも 1 回起きた（前足のあごのかげ）。描いて見て気づいて直し、renjill-auto に tests/test_rig_inline_comment.py を足した（公式サイトは検査 57 が見張る）。
 - guide3d.js の 48KB の決まりを守るため、先頭の長い説明と中くらいの説明を docs/GUIDE3D-NOTES.md に移した（消していない）。
+
+## 2026-11-17 追加：伸び（あくび）と、ばたん（横倒しで寝る）
+
+- 伸び：休みの合図「のび」の時、前足を前にのばしておしりを上げ、口を大きくあけてあくびする絵に切りかわる（アニメの道具の `bow` の形・色をそのまま使用）。
+- ばたん：寝ころぶ時、4 回に 1〜2 回（約 40%）は横に倒れて寝る絵になる（`flop`）。向いている方向のまま倒れる。
+- ばたんの絵は 2 枚目の絵（img/g3d/atlas2.webp、2048 四方）に入れた。スマホは 4096 より大きい絵を読めないことがあるため。2 枚目が読めない時は、ばたんをせず、今までの寝方になる。
+- 点検：qa/check.mjs の 57 番が、伸び・ばたんの倒し具合・ずれが poses.json と同じか、2 枚目の絵の ?v= が中身の指紋と同じかを見張る。
